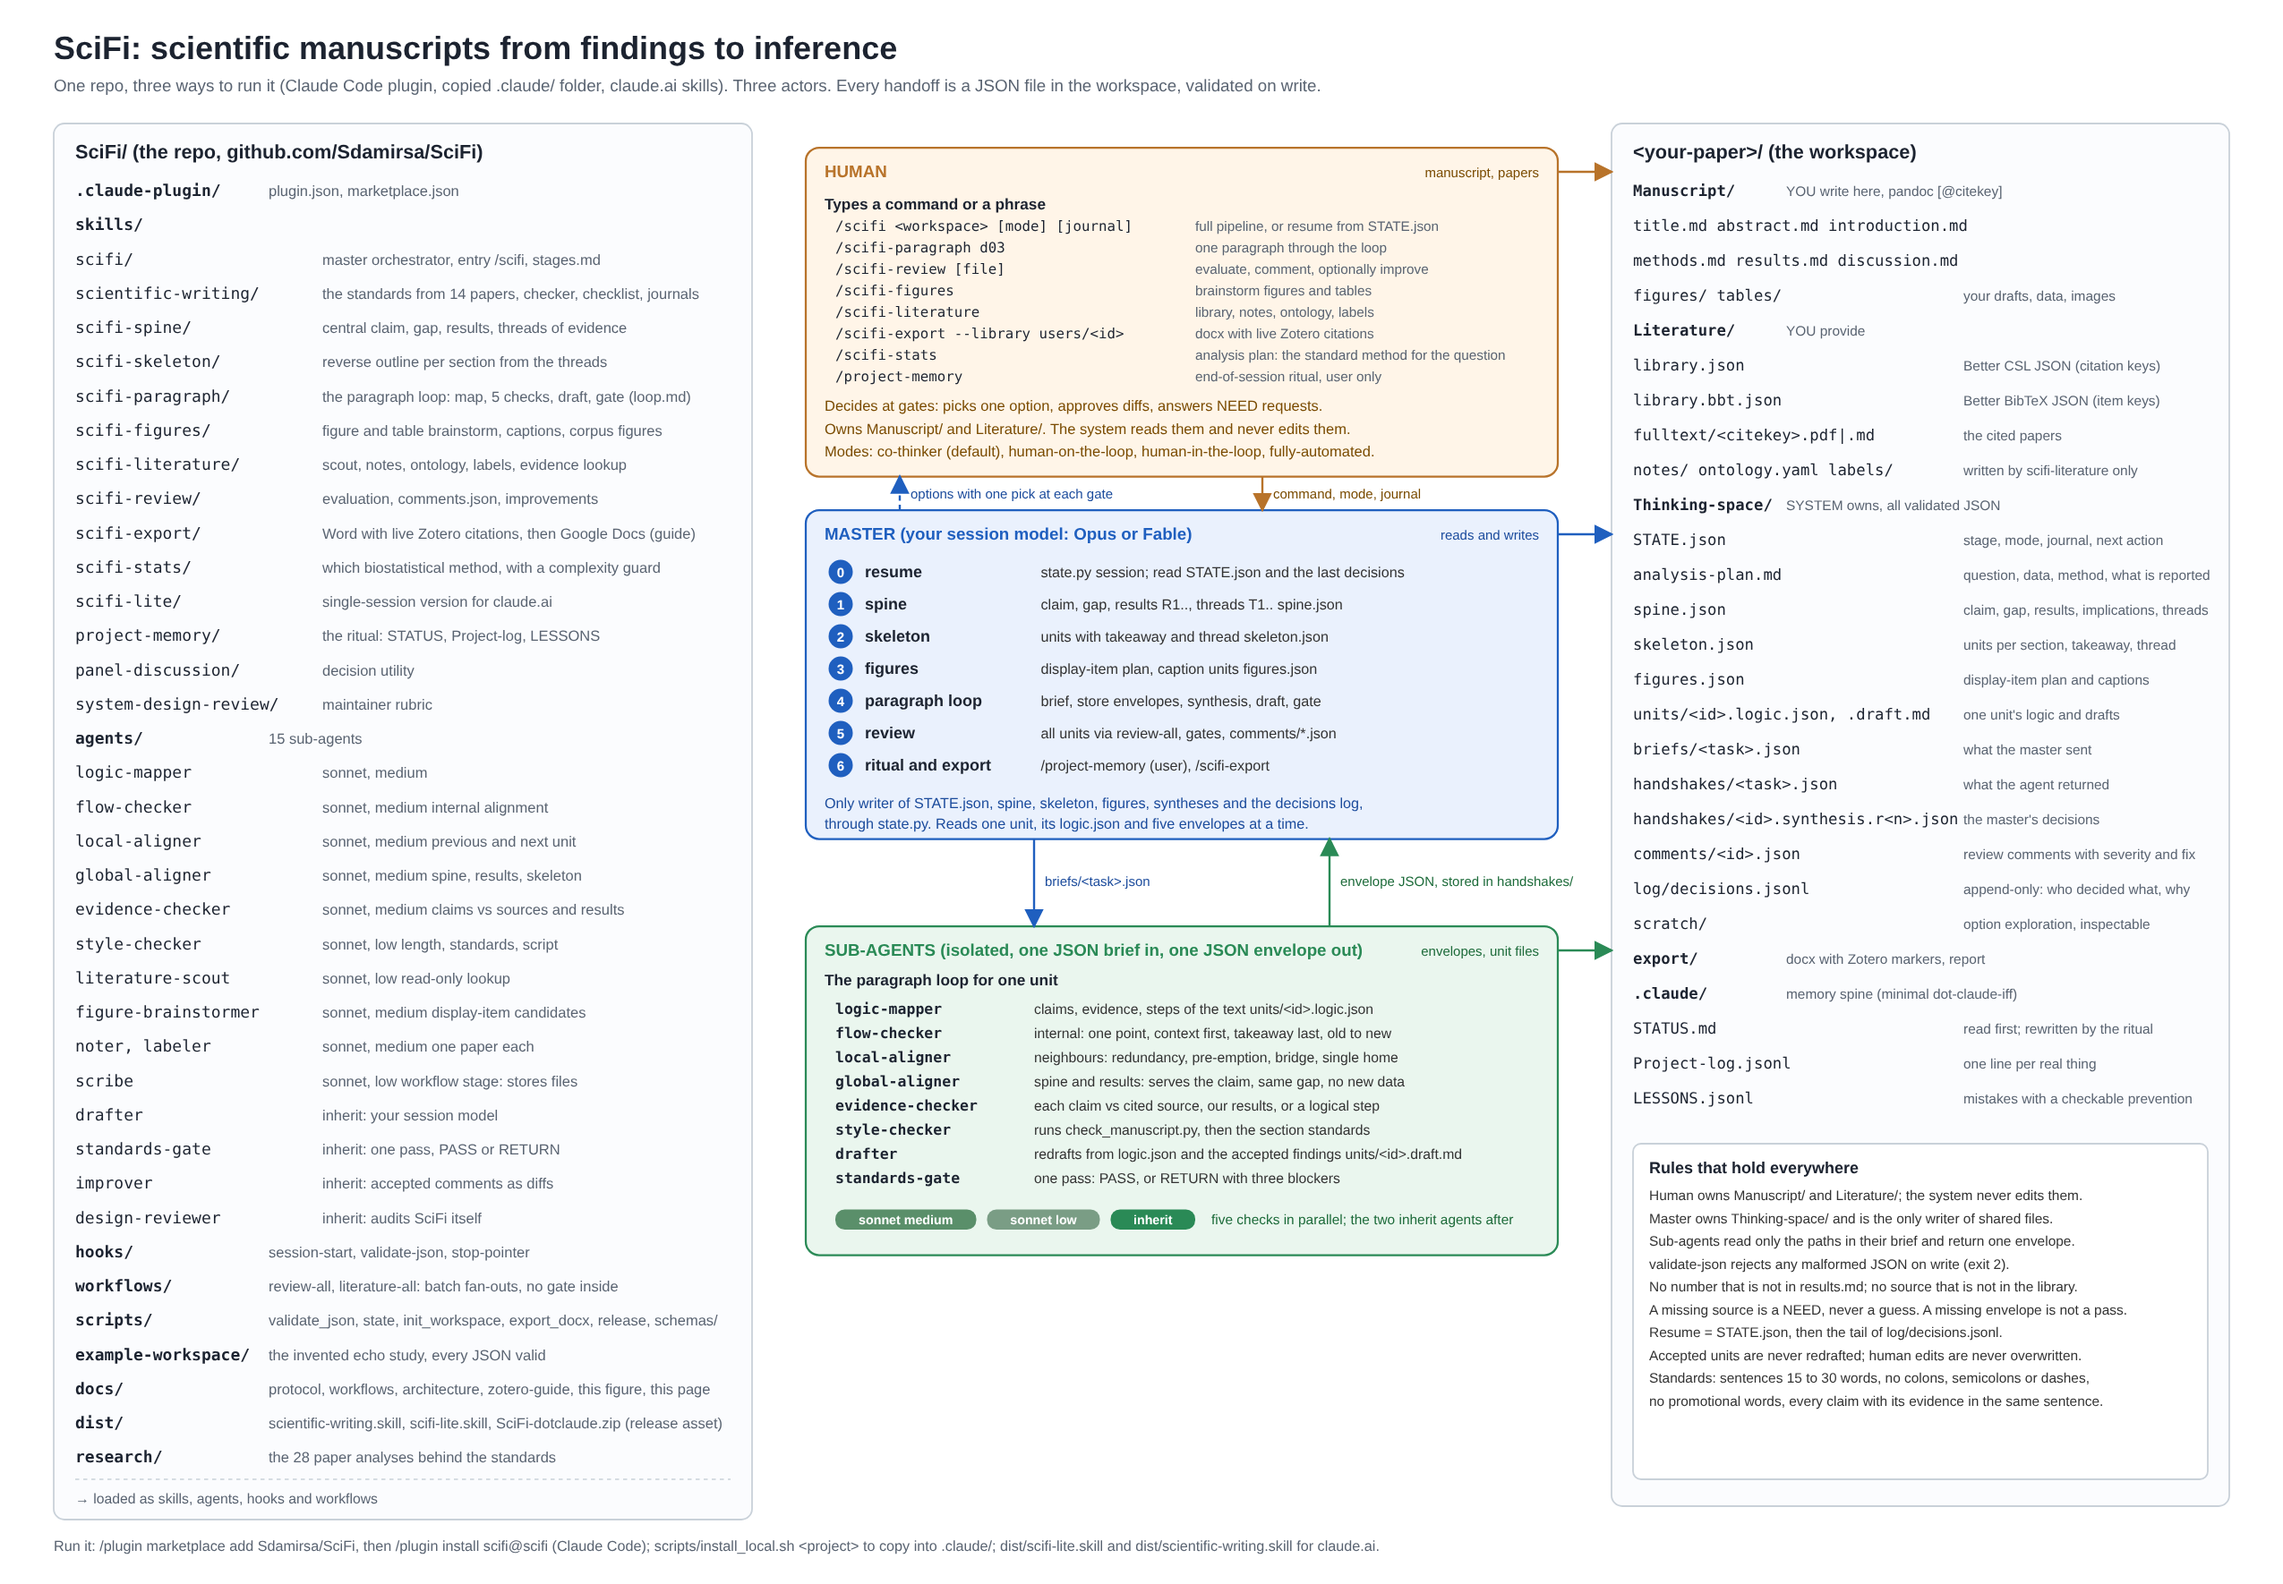
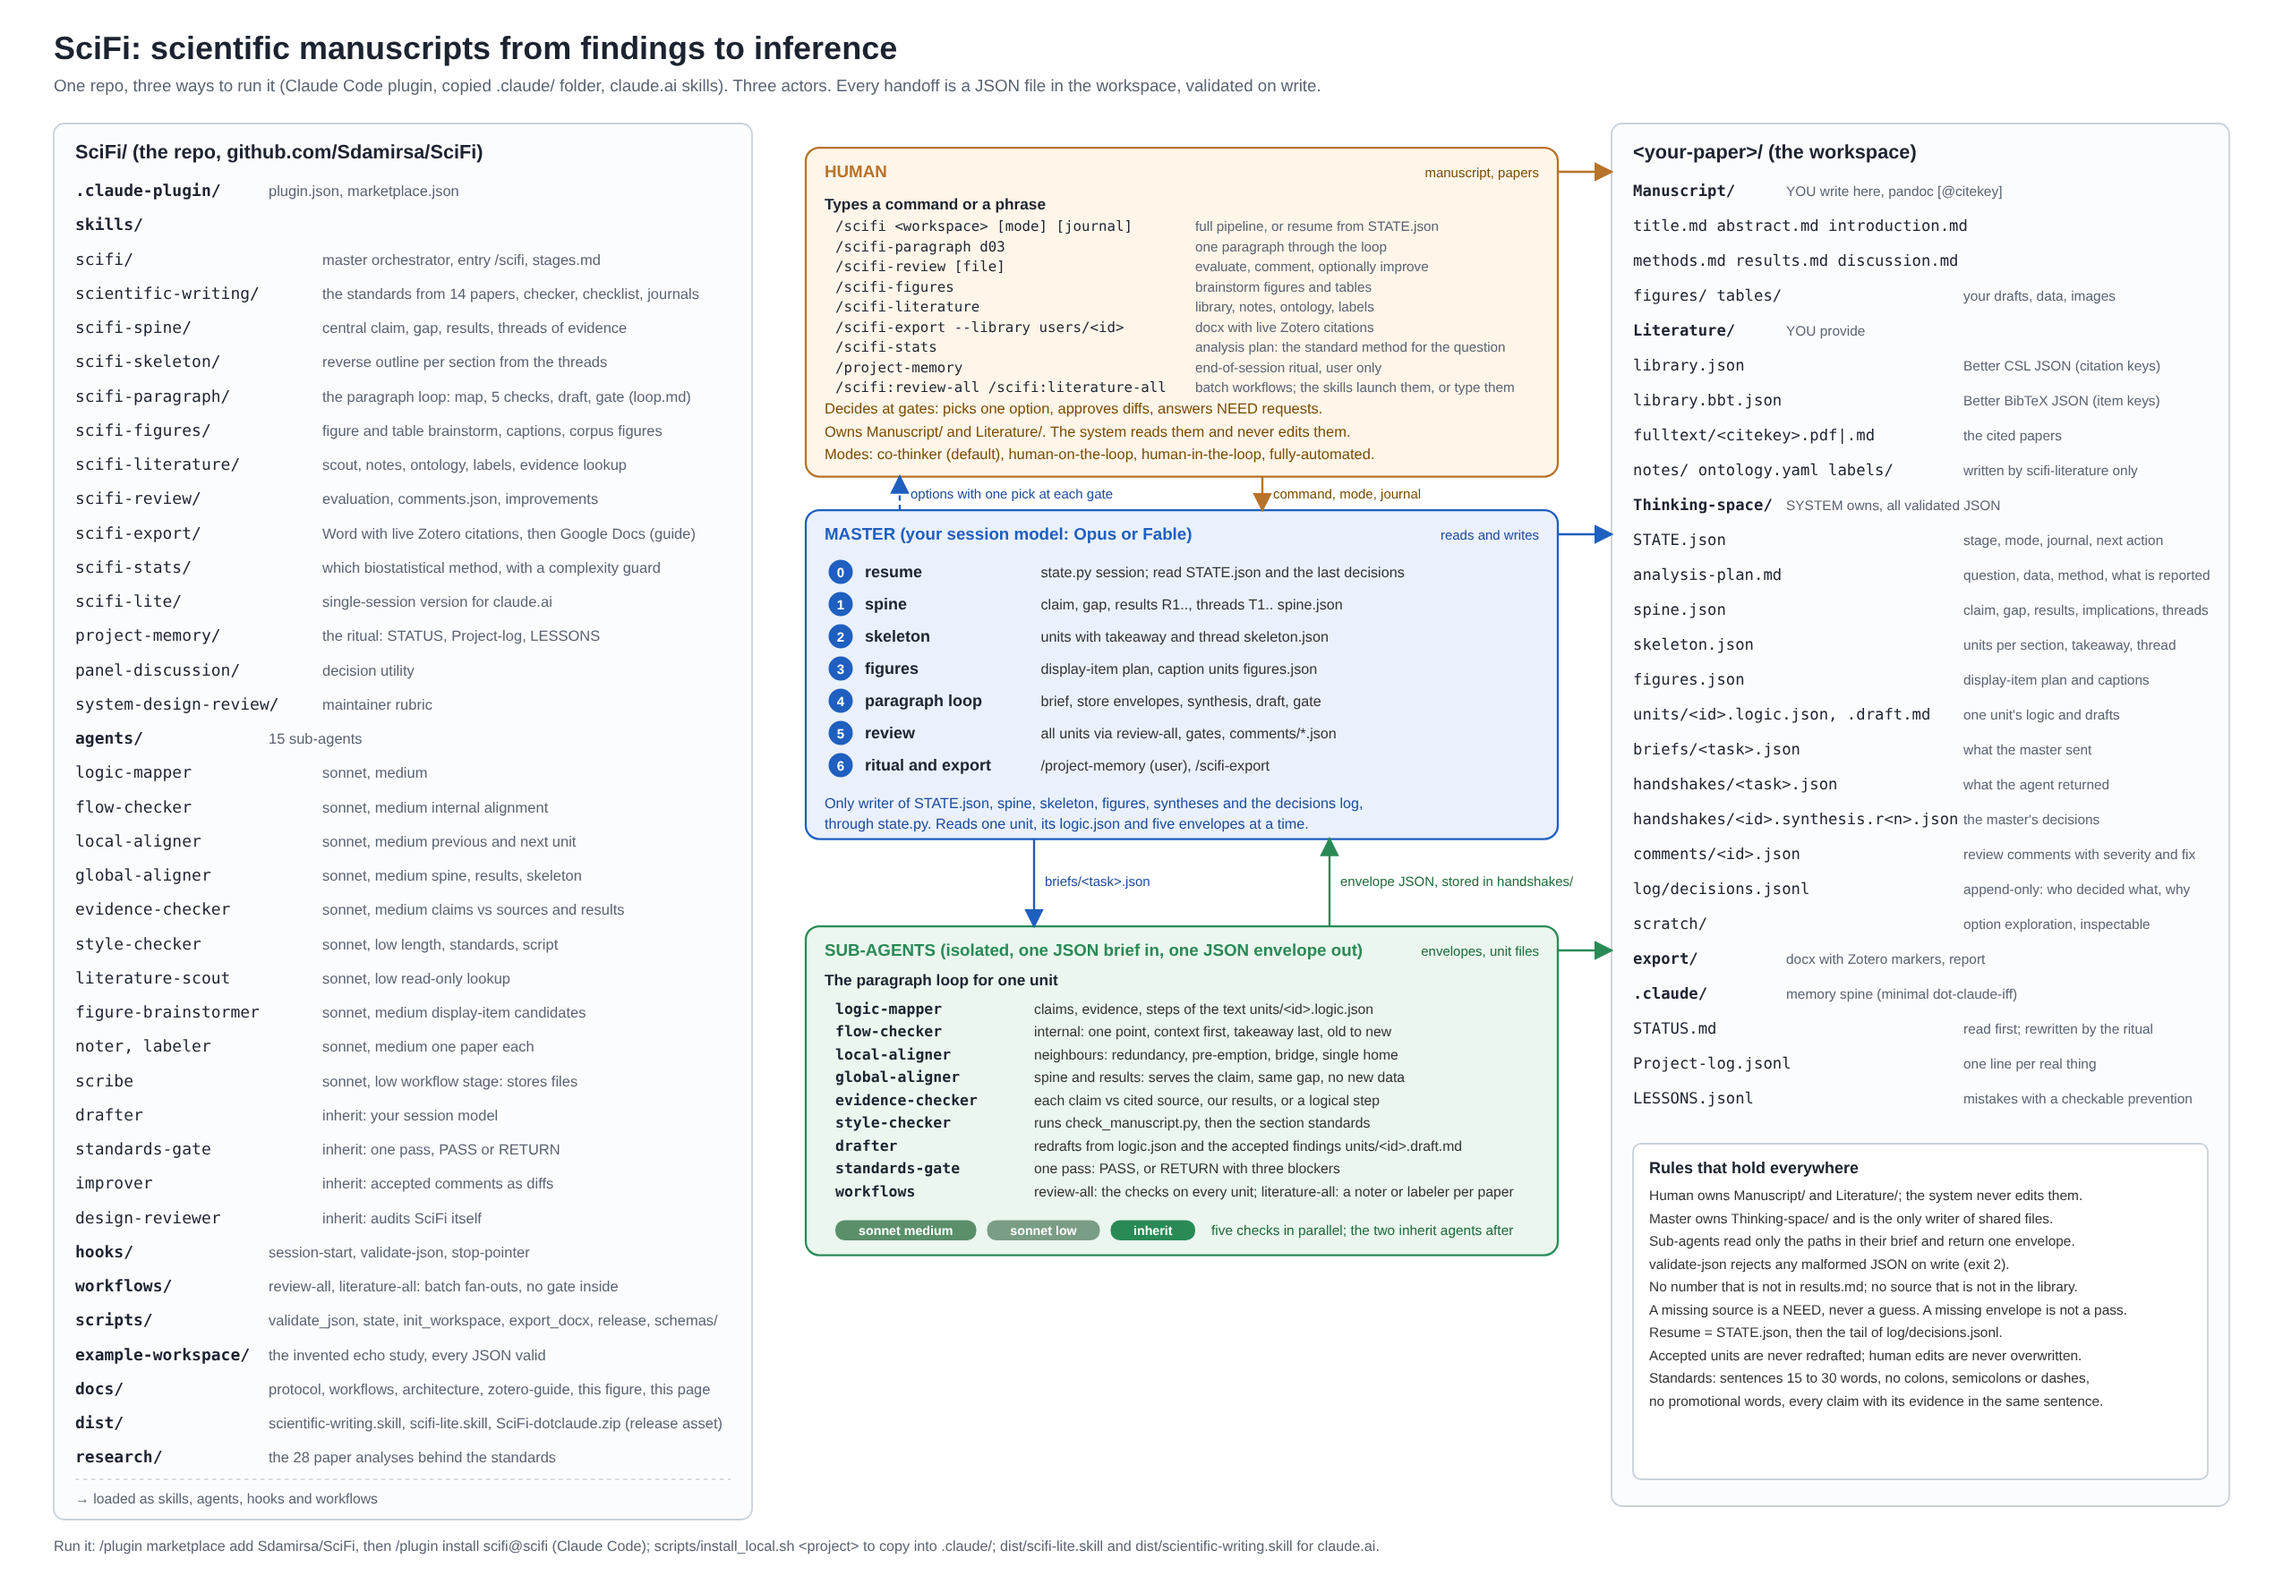
Anatomy: the two workflows in the human and sub-agent lanes of the figure and the page
Claude-Session: https://claude.ai/code/session_011bK9ZCyhS3wXKsiaVcN1Xk

Changed region(s): [[0.3718, 0.6525, 0.6506, 0.8079], [0.3408, 0.1554, 0.6506, 0.3107]]

diff --git a/docs/index.html b/docs/index.html
@@ -178,6 +178,7 @@ h1 { font-size: 24px; margin: 0; font-weight: 700; letter-spacing: -0.01em; text
 <div class="cmd"><span class="mono"><a href="https://github.com/Sdamirsa/SciFi/blob/main/skills/scifi-export/SKILL.md" target="_blank" rel="noopener">/scifi-export --library users/&lt;id&gt;</a></span><span class="desc">docx with live Zotero citations</span></div>
 <div class="cmd"><span class="mono"><a href="https://github.com/Sdamirsa/SciFi/blob/main/skills/scifi-stats/SKILL.md" target="_blank" rel="noopener">/scifi-stats</a></span><span class="desc">analysis plan: the standard method for the question</span></div>
 <div class="cmd"><span class="mono"><a href="https://github.com/Sdamirsa/SciFi/blob/main/skills/project-memory/SKILL.md" target="_blank" rel="noopener">/project-memory</a></span><span class="desc">end-of-session ritual, user only</span></div>
+<div class="cmd"><span class="mono"><a href="https://github.com/Sdamirsa/SciFi/blob/main/workflows/review-all.js" target="_blank" rel="noopener">/scifi:review-all</a>  <a href="https://github.com/Sdamirsa/SciFi/blob/main/workflows/literature-all.js" target="_blank" rel="noopener">/scifi:literature-all</a></span><span class="desc">batch workflows; the skills launch them, or type them</span></div>
         </div>
 <p class="note human-note"><a href="https://github.com/Sdamirsa/SciFi/blob/main/docs/protocol.md#6-control-modes" target="_blank" rel="noopener">Decides at gates: picks one option, approves diffs, answers NEED requests.</a></p>
 <p class="note human-note"><a href="https://github.com/Sdamirsa/SciFi/blob/main/docs/protocol.md#1-actors" target="_blank" rel="noopener">Owns Manuscript/ and Literature/. The system reads them and never edits them.</a></p>
@@ -217,6 +218,7 @@ h1 { font-size: 24px; margin: 0; font-weight: 700; letter-spacing: -0.01em; text
 <div class="agent"><span class="mono bold"><a href="https://github.com/Sdamirsa/SciFi/blob/main/agents/style-checker.md" target="_blank" rel="noopener">style-checker</a></span><span class="desc dark">runs <a href="https://github.com/Sdamirsa/SciFi/blob/main/skills/scientific-writing/scripts/check_manuscript.py" target="_blank" rel="noopener">check_manuscript.py</a>, then the <a href="https://github.com/Sdamirsa/SciFi/tree/main/skills/scientific-writing/references/sections" target="_blank" rel="noopener">section standards</a></span></div>
 <div class="agent"><span class="mono bold"><a href="https://github.com/Sdamirsa/SciFi/blob/main/agents/drafter.md" target="_blank" rel="noopener">drafter</a></span><span class="desc dark">redrafts from logic.json and the accepted findings  <a href="https://github.com/Sdamirsa/SciFi/blob/main/example-workspace/Thinking-space/units/d03.draft.md" target="_blank" rel="noopener">units/&lt;id&gt;.draft.md</a></span></div>
 <div class="agent"><span class="mono bold"><a href="https://github.com/Sdamirsa/SciFi/blob/main/agents/standards-gate.md" target="_blank" rel="noopener">standards-gate</a></span><span class="desc dark">one pass: PASS, or RETURN with three blockers</span></div>
+<div class="agent"><span class="mono bold"><a href="https://github.com/Sdamirsa/SciFi/tree/main/workflows" target="_blank" rel="noopener">workflows</a></span><span class="desc dark"><a href="https://github.com/Sdamirsa/SciFi/blob/main/workflows/review-all.js" target="_blank" rel="noopener">review-all</a>: the checks on every unit; <a href="https://github.com/Sdamirsa/SciFi/blob/main/workflows/literature-all.js" target="_blank" rel="noopener">literature-all</a>: a <a href="https://github.com/Sdamirsa/SciFi/blob/main/agents/noter.md" target="_blank" rel="noopener">noter</a> or <a href="https://github.com/Sdamirsa/SciFi/blob/main/agents/labeler.md" target="_blank" rel="noopener">labeler</a> per paper</span></div>
         </div>
         <p class="pills"><a class="pill" style="background:#5a8f6a" href="https://github.com/Sdamirsa/SciFi/blob/main/docs/protocol.md#7-model-routing-and-effort" target="_blank" rel="noopener">sonnet medium</a><a class="pill" style="background:#7a9d85" href="https://github.com/Sdamirsa/SciFi/blob/main/docs/protocol.md#7-model-routing-and-effort" target="_blank" rel="noopener">sonnet low</a><a class="pill" style="background:#2a8a56" href="https://github.com/Sdamirsa/SciFi/blob/main/docs/protocol.md#7-model-routing-and-effort" target="_blank" rel="noopener">inherit</a><span class="agent-ink pill-note">five checks in parallel; the two inherit agents after</span></p>
       </div>

diff --git a/docs/anatomy_data.py b/docs/anatomy_data.py
@@ -93,6 +93,7 @@ LOCAL = {
                 (S(("/scifi-export --library users/<id>", "skills/scifi-export/SKILL.md")), S("docx with live Zotero citations")),
                 (S(("/scifi-stats", "skills/scifi-stats/SKILL.md")), S("analysis plan: the standard method for the question")),
                 (S(("/project-memory", "skills/project-memory/SKILL.md")), S("end-of-session ritual, user only")),
+                (S(("/scifi:review-all", "workflows/review-all.js"), "  ", ("/scifi:literature-all", "workflows/literature-all.js")), S("batch workflows; the skills launch them, or type them")),
             ],
             "notes": [
                 S(("Decides at gates: picks one option, approves diffs, answers NEED requests.", "docs/protocol.md#6-control-modes")),
@@ -128,6 +129,7 @@ LOCAL = {
                 (S(("style-checker", "agents/style-checker.md")), S("runs ", ("check_manuscript.py", "skills/scientific-writing/scripts/check_manuscript.py"), ", then the ", ("section standards", "skills/scientific-writing/references/sections"))),
                 (S(("drafter", "agents/drafter.md")), S("redrafts from logic.json and the accepted findings  ", ("units/<id>.draft.md", "example-workspace/Thinking-space/units/d03.draft.md"))),
                 (S(("standards-gate", "agents/standards-gate.md")), S("one pass: PASS, or RETURN with three blockers")),
+                (S(("workflows", "workflows")), S(("review-all", "workflows/review-all.js"), ": the checks on every unit; ", ("literature-all", "workflows/literature-all.js"), ": a ", ("noter", "agents/noter.md"), " or ", ("labeler", "agents/labeler.md"), " per paper")),
             ],
             "pills": [("sonnet medium", "#5a8f6a"), ("sonnet low", "#7a9d85"), ("inherit", "#2a8a56")],
             "pills_href": "docs/protocol.md#7-model-routing-and-effort",

diff --git a/docs/make_figure.py b/docs/make_figure.py
@@ -92,10 +92,10 @@ hy = 110
 text(MX + 14, hy + 46, L["human"]["heading"], 11.5, "bold")
 cmds = [(plain(c), plain(d)) for c, d in LOCAL["lanes"]["human"]["items"]]
 for i, (c, d) in enumerate(cmds):
-    text(MX + 22, hy + 62 + i * 16, c, 10.5, mono=True)
-    text(MX + 290, hy + 62 + i * 16, d, 10.2, fill=SLATE)
+    text(MX + 22, hy + 62 + i * 15, c, 10.5, mono=True)
+    text(MX + 290, hy + 62 + i * 15, d, 10.2, fill=SLATE)
 for i, n in enumerate(LOCAL["lanes"]["human"]["notes"]):
-    text(MX + 14, hy + 196 + i * 17, plain(n), 11, fill="#7a4b00")
+    text(MX + 14, hy + 198 + i * 17, plain(n), 11, fill="#7a4b00")
 
 my = 380
 steps = [(n, plain(name), plain(d)) for n, name, d in LOCAL["lanes"]["master"]["steps"]]
@@ -112,13 +112,13 @@ sy = 690
 text(MX + 14, sy + 44, L["agents"]["heading"], 11.5, "bold")
 rows = [(plain(a), plain(d)) for a, d in L["agents"]["rows"]]
 for i, (a, d) in enumerate(rows):
-    yy = sy + 65 + i * 18
+    yy = sy + 65 + i * 17
     text(MX + 22, yy, a, 11, "bold", mono=True)
     text(MX + 170, yy, d, 10.5, fill="#333")
 px = MX + 22
 for label, color in L["agents"]["pills"]:
-    px += pill(px, sy + 222, label, color) + 8
-text(MX + 302, sy + 222, plain(L["agents"]["note"]), 10.3, fill="#1d6b3a")
+    px += pill(px, sy + 230, label, color) + 8
+text(MX + 302, sy + 230, plain(L["agents"]["note"]), 10.3, fill="#1d6b3a")
 
 # arrows between lanes
 line(MX + MW / 2 + 60, 355, MX + MW / 2 + 60, 380, HUMAN)
